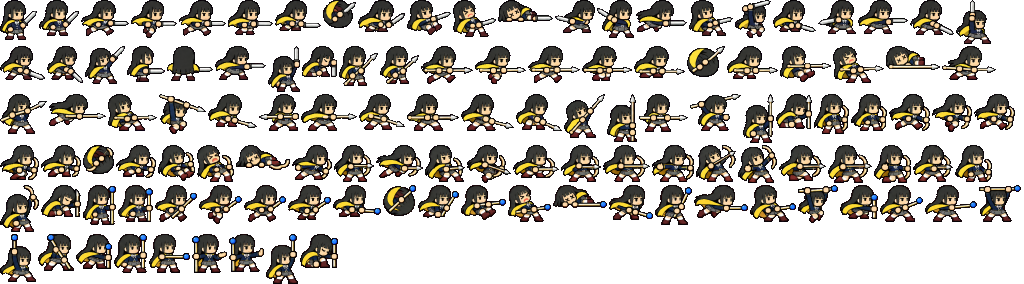
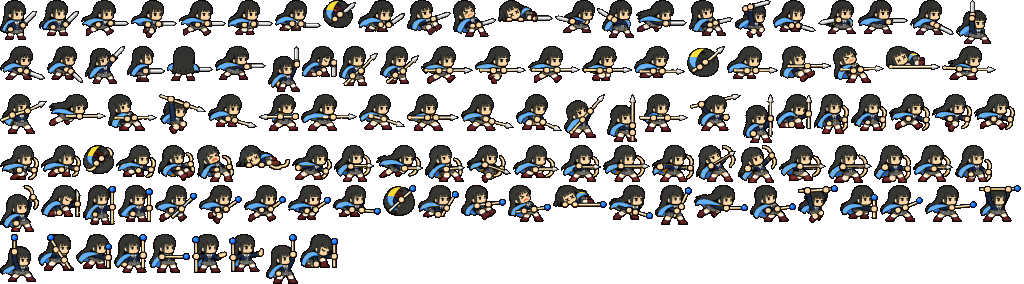
披风换色（男主深炭灰、女主亮蓝）；打完一章进卡带世界地图选下一章
Claude-Session: https://claude.ai/code/session_015MetZpZfHySQWDEPDS41Tu

diff --git a/css/style.css b/css/style.css
@@ -462,3 +462,21 @@ body:not(.touch) #bRoll { width: 64px; height: 64px; font-size: 14px; pointer-ev
 .tload i { position: absolute; left: 0; top: 0; bottom: 0; width: 0; background: linear-gradient(#ffd86a, #b8862a); transition: width .3s; }
 .tload span { position: relative; display: block; text-align: center; font-size: 12px; line-height: 18px; color: #fff; text-shadow: 0 1px 2px #000; }
 .tload.done { display: none; } #bStart:disabled { opacity: .4; pointer-events: none; }
+
+/* 11/22 卡带世界地图 */
+#wmap { background: #120c08; display: none; align-items: center; justify-content: center; flex-direction: column; } #wmap.on { display: flex; }
+.wm { position: relative; width: min(100vw, 177.7vh); aspect-ratio: 1672 / 941; } .wm img { width: 100%; height: 100%; display: block; }
+#wmNodes { position: absolute; inset: 0; }
+.wmn { position: absolute; transform: translate(-50%, -50%); display: flex; flex-direction: column; align-items: center; cursor: pointer; }
+.wmn i { width: 22px; height: 22px; border-radius: 50%; border: 3px solid #3a2410; background: #e8c060; box-shadow: 0 0 0 2px #f0e0b0, 0 2px 6px #000a; }
+.wmn b { margin-top: 4px; padding: 2px 8px; background: rgba(40, 24, 12, .85); color: #ffe6a8; font-size: 14px; white-space: nowrap; border: 1px solid #c8a060; }
+.wmn small { color: #3a2410; font-size: 11px; font-weight: bold; text-shadow: 0 0 3px #f0e0c0; }
+.wmn.done i { background: #8ef07a; } .wmn.next i { animation: wmPulse 1s ease-in-out infinite; }
+.wmn.lock i { background: #6a3aa0; box-shadow: 0 0 0 2px #b07bff, 0 0 14px 6px rgba(120, 50, 200, .55); } .wmn.lock b { color: #b8a8c8; }
+.wmn.sel b { background: #8a5a18; color: #fff; }
+@keyframes wmPulse { 50% { transform: scale(1.35); box-shadow: 0 0 0 2px #fff, 0 0 14px 4px #ffd86a; } }
+.wmbar { position: absolute; left: 0; right: 0; bottom: 0; display: flex; align-items: center; gap: 14px; padding: 10px 16px calc(10px + env(safe-area-inset-bottom)); background: linear-gradient(transparent, rgba(16, 8, 4, .9) 40%); color: #f0e0c0; }
+.wmbar b { font-size: 20px; color: #ffd86a; } .wmbar span { flex: 1; font-size: 14px; } #wmGo:disabled { opacity: .4; }
+@media (orientation: portrait) { .wm { width: 100vw; } .wmn b { font-size: 11px; padding: 1px 4px; } .wmn i { width: 14px; height: 14px; } .wmn small { display: none; } .wmbar { flex-wrap: wrap; } }
+@media (orientation: portrait) { #wmap { justify-content: flex-start; } .wmscroll { width: 100vw; height: 82vh; overflow-x: auto; overflow-y: hidden; }
+  .wm { width: auto; height: 82vh; } .wmn b { font-size: 13px; } .wmn i { width: 18px; height: 18px; } }

diff --git a/js/ui.js b/js/ui.js
@@ -184,7 +184,21 @@
   }
   let toastT = 0; function toast(s) { const e = $('toast'); e.textContent = s; e.classList.add('on'); clearTimeout(toastT); toastT = setTimeout(() => e.classList.remove('on'), 1800); }
   $('bRoll').addEventListener('pointerdown', e => { e.stopPropagation(); BATTLE.roll(); });
+  // 11/22 卡带世界地图：打完一章出来，已通关的亮、下一章可选、其余被乱码盖着
+  function worldMap(done) {
+    const box = $('wmNodes'); box.innerHTML = ''; let pick = null; const cleared = 1;
+    $('wmTitle').textContent = '卡带世界 · 选择下一章'; $('wmGo').disabled = true; $('wmHint').textContent = '点地图上的地点';
+    DATA.chapters.forEach((c, i) => { const d = document.createElement('div'), st = c.id <= cleared ? 'done' : c.id === cleared + 1 ? 'next' : 'lock';
+      d.className = 'wmn ' + st; d.style.left = c.x * 100 + '%'; d.style.top = c.y * 100 + '%';
+      d.innerHTML = `<i></i><b>${st === 'lock' ? '？？？' : c.name}</b><small>${st === 'done' ? '已通关' : st === 'next' ? c.game : '被乱码覆盖'}</small>`;
+      d.onclick = () => { if (st === 'lock') return toast('先打通前面的章节'); if (st === 'done') return toast('这里已经恢复平静了');
+        for (const x of box.children) x.classList.remove('sel'); d.classList.add('sel'); pick = c; $('wmHint').textContent = `「${c.name}」还在制作中，敬请期待`; $('wmGo').disabled = false; };
+      box.appendChild(d); });
+    $('wmGo').onclick = () => { overlay('wmap', false); done(pick); }; overlay('wmap', true);
+    const sc = $('wmScroll'); sc.scrollLeft = (sc.scrollWidth - sc.clientWidth) * .55;   // 手机竖屏：地图横向可拖，先对准中间
+  }
   function result(r) {
+    if (r.win && !r.mapShown) return worldMap(() => result(Object.assign({}, r, { mapShown: true })));
     $('rTitle').textContent = r.win ? '胜利！' : '败北……';
     $('rMsg').textContent = r.win ? '哥布林王倒下了，屏幕那头好像传来了「下一关」的音乐。' : '眼前一黑……再按一次开始键吧。';
     const best = Object.entries(r.dmg || {}).sort((a, b) => b[1] - a[1])[0];

diff --git a/js/data.js b/js/data.js
@@ -130,6 +130,14 @@ window.DATA = {
     { id: 'manual', name: '说明书残页', desc: '地上有一张发黄的纸，是那盘 999 合 1 的说明书。', opts: [['仔细读', '随机一项属性 +2', 'attr2'], ['卖给咕噜', '铜钱 +25', 'coin25']] },
     { id: 'lumina', name: '露米娜的声音', desc: '耳边传来露米娜的声音：「勇者，你还好吗？」', opts: [['请她治疗', '回复 60% 生命', 'heal60'], ['请她指点', '多一次修炼', 'xiu']] },
   ],
+  // 11/22 卡带世界地图（art/ui2/map.webp 上的位置，按图宽高的比例）：打完一章在这里选下一章。只有第一章能玩，其余锁着
+  chapters: [
+    { id: 1, name: '哥布林森林', game: '光之王国', x: .47, y: .29, open: true },
+    { id: 2, name: '三国乱世', game: '三国卡带', x: .79, y: .32 },
+    { id: 3, name: '芙蓉镇', game: '驱邪卡带', x: .69, y: .49 },
+    { id: 4, name: '铁骑荒原', game: '铁骑卡带', x: .56, y: .62 },
+    { id: 5, name: '第 1000 号', game: '???', x: .17, y: .79 },
+  ],
   waveT: 30,                             // 每波固定 30 秒（11/21 用户定，先这样试）
   countMul: 2,                           // 出怪数量 = 表上 × 2（30 秒一波、不再清场，怪要多）
   // 精英 / 小头目：血、伤害、体型倍率（群侠四档）

diff --git a/index.html b/index.html
@@ -91,6 +91,7 @@
   <div class="cfoot"><span class="dim" id="cHint"></span><span class="sp"></span><button class="btn gold" id="cGo">继续</button></div>
 </div></div>
 <div id="route" class="scr over camp"><div class="panel box"><h2 id="rtTitle">选择下一站</h2><div class="rcards" id="rtCards"></div></div></div>
+<div id="wmap" class="scr over"><div class="wmscroll" id="wmScroll"><div class="wm"><img src="art/ui2/map.webp" alt="" draggable="false"><div id="wmNodes"></div></div></div><div class="wmbar"><b id="wmTitle">卡带世界</b><span id="wmHint"></span><button class="btn gold" id="wmGo">继续 ▶</button></div></div>
 <div id="toast"></div>
 <div id="result" class="scr over"><div class="panel box"><h2 id="rTitle"></h2><p id="rMsg"></p><div class="stats" id="rStats"></div><div class="col"><button class="btn gold" id="rAgain">再来一次</button><button class="btn" id="rWep">回备战页</button><button class="btn" id="rHome">回主界面</button></div></div></div>
 <div id="tpanel" class="scr over"><div class="panel box wide"><h2 id="tpTitle"></h2><div id="tpBody"></div><div class="col"><button class="btn gold" id="tpClose">关闭</button></div></div></div>

diff --git a/tools/pixel/recolor_capes.py b/tools/pixel/recolor_capes.py
@@ -1,0 +1,21 @@
+"""11/22 披风换色：男主黄 → 深炭灰（亮面带灰蓝），女主黄 → 亮蓝。直接改打包好的图集（build_hero30 / build_heroine 之后跑）。
+黄色判定：r>150、g>0.7r、b<0.55g（头发橙、皮肤、木头都不进）。保留原来的明暗。"""
+import numpy as np, os
+from PIL import Image
+R0 = os.path.dirname(os.path.dirname(os.path.dirname(os.path.abspath(__file__))))
+import json
+def run(path, dark, light):
+  J = json.load(open(path.replace('.png', '.json'))); im = Image.open(path).convert('RGBA'); a = np.array(im).astype(float); r, g, b = a[..., 0], a[..., 1], a[..., 2]
+  m = (a[..., 3] > 0) & (r > 150) & (g > .72 * r) & (b < .42 * g)
+  head = np.zeros(m.shape, bool)
+  for k, L0 in J['f'].items():
+    for x, y, w, h, ax, ay in L0: head[y:y + int(h * .38), x:x + w] = True
+  m &= ~head
+  from scipy import ndimage as nd
+  for _ in range(3):   # 披风边上偏暗的黄 / 橙黄也带上（只在已改区域旁边）
+    near = nd.binary_dilation(m, iterations=2); m |= near & ~head & (a[..., 3] > 0) & (r > 110) & (g > .55 * r) & (b < .5 * g)
+  L = ((r + g) / 2)[..., None]; t = np.clip((L - 150) / 105, 0, 1)
+  new = np.array(dark) + (np.array(light) - np.array(dark)) * t
+  a[m, :3] = new[m]; Image.fromarray(a.clip(0, 255).astype(np.uint8)).save(path); print(path, int(m.sum()))
+run(os.path.join(R0, 'art/hero/atlas.png'), (34, 36, 44), (104, 116, 138))
+run(os.path.join(R0, 'art/heroF/atlas.png'), (30, 96, 190), (120, 196, 255))
